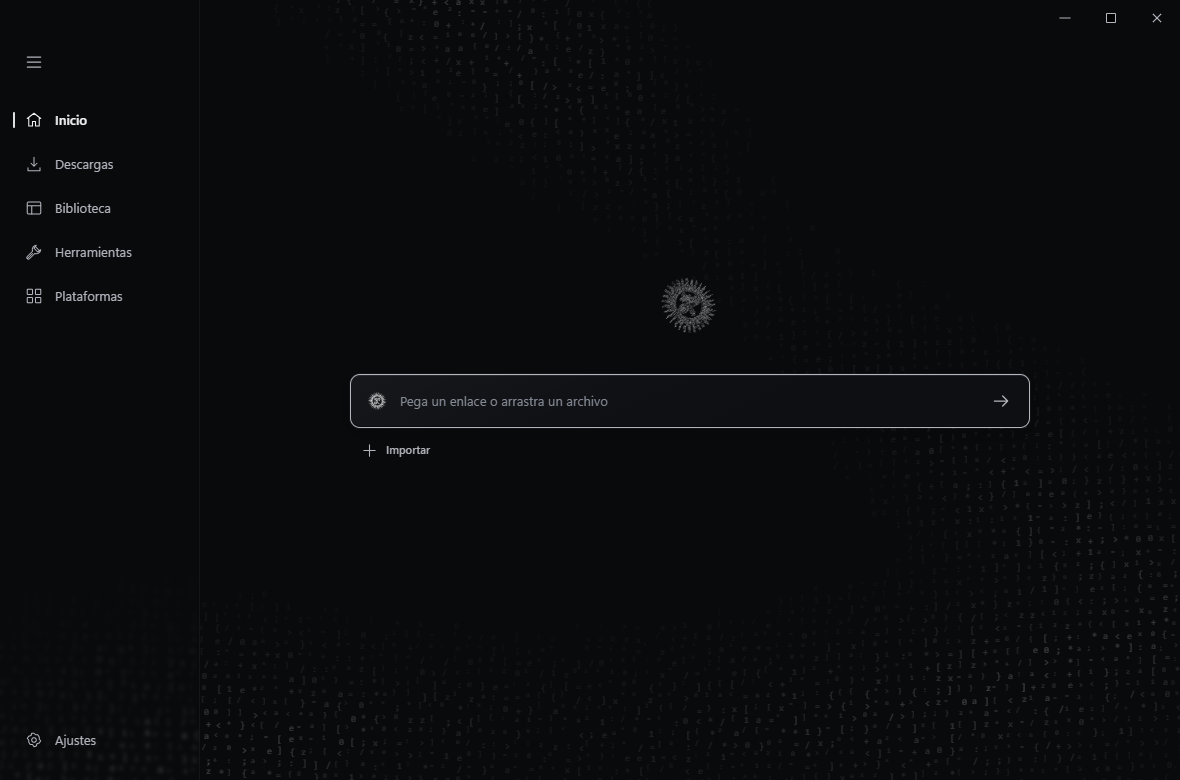
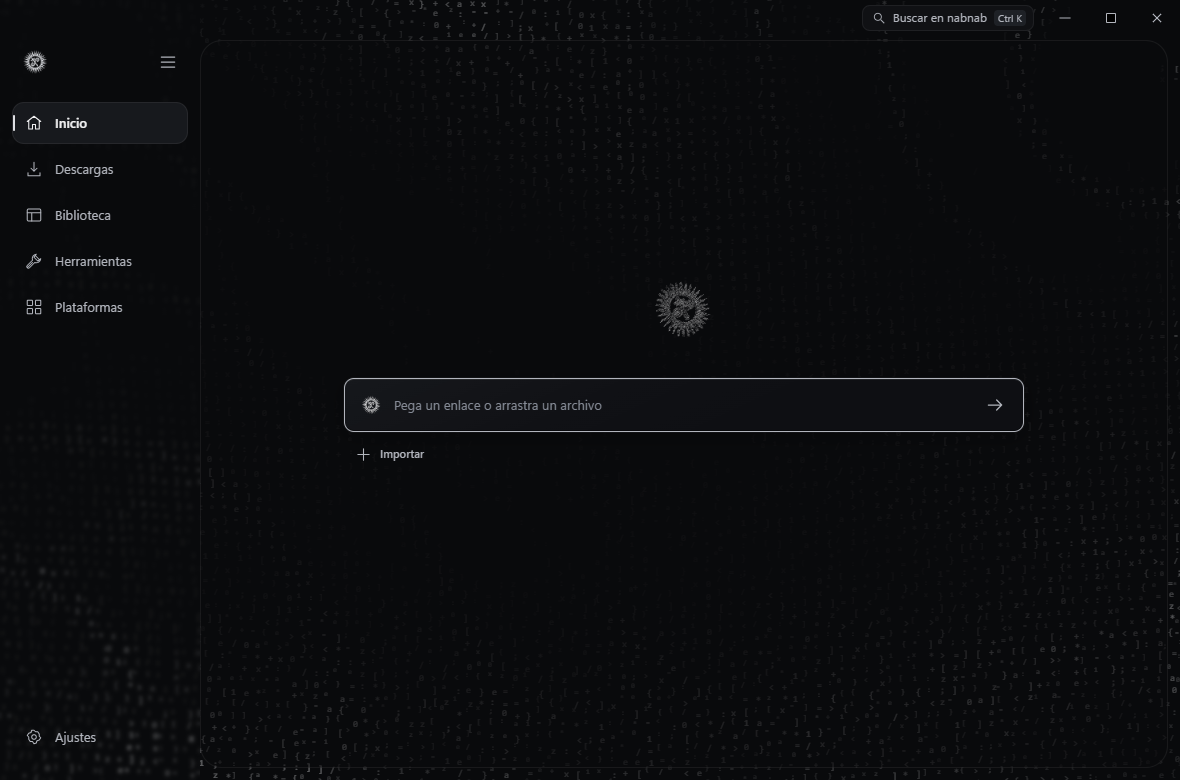
Unify workspace visuals

diff --git a/src/platforms-ui.ts b/src/platforms-ui.ts
@@ -1,11 +1,22 @@
 import {createFederatedAuthController} from "./federated-auth-ui";
 import {createGalleryAuth} from "./gallery-auth-ui";
 import {escapeHtml as h, type Copy, type Job, type Snapshot} from './contracts';
-import {icon, option} from './views-common';
+import {icon, option, type Icon} from './views-common';
 
 type Group = 'social'|'images'|'audio'|'telegram'|'courses'|'files';
 interface Platform {module?:'telegram'|'courses'|'torrent'|'podcasts'|'files'|'fileSources';federated?:'peertube'|'mastodon';id:string;name:string;host:string;group:Group;operations:string;engine:string;session:string;gallery?:boolean}
-const platformMarks:Record<string,string>={github:"GH",archive:"IA",commons:"WC",drive:"D",onedrive:"OD",dropbox:"DB",youtube:"Y",telegram:"T"};
+const platformLogos = new Set(
+  "archive artstation arxiv bandcamp bilibili bluesky commons coursera dailymotion deviantart drive dropbox facebook flickr github imgur instagram mastodon peertube pinterest pixiv reddit skillshare soundcloud telegram threads tiktok torrent tumblr twitch twitter udemy vimeo youtube zenodo".split(" "),
+);
+const platformFallback: Record<Group, Icon> = {
+  audio: "audio", courses: "library", files: "folder", images: "image", social: "video", telegram: "link",
+};
+
+function platformMark(platform: Platform) {
+  return `<span class="platform-symbol" aria-hidden="true">${platformLogos.has(platform.id)
+    ? `<img src="${import.meta.env.BASE_URL}platform-logos/${platform.id}.svg" width="24" height="24" alt="" loading="lazy" decoding="async">`
+    : icon(platform.id === "http" ? "link" : platformFallback[platform.group])}</span>`;
+}
 const platforms:Platform[] = [
   ...[{id:"github",name:"GitHub Releases",host:"github.com",session:"Versiones estables y prerelease"},{id:"archive",name:"Internet Archive",host:"archive.org",session:"Originales y derivados autorizados"},{id:"commons",name:"Wikimedia Commons",host:"commons.wikimedia.org",session:"Autor y licencia por archivo"},{id:"drive",name:"Google Drive",host:"drive.google.com",session:"OAuth de escritorio requerido"},{id:"onedrive",name:"OneDrive",host:"onedrive.live.com",session:"OAuth de escritorio requerido"},{id:"dropbox",name:"Dropbox",host:"dropbox.com",session:"OAuth de escritorio requerido"}].map<Platform>(p=>({...p,group:"files",module:"fileSources",engine:"API oficial",operations:"Explorar · seleccionar · descargar a Biblioteca"})),
   {id:'telegram',name:'Telegram',host:'t.me · cuenta MTProto autorizada',group:'telegram',operations:'Medios de mensajes y chats accesibles · selección paginada',engine:'TDLib opcional',session:'api_id, api_hash y cuenta propia',module:'telegram'},
@@ -46,13 +57,13 @@ export function createPlatformsController(hooks:Hooks){
   function render():string{
     if(current){
       const visible=gallery?.assets.filter(assetVisible)??[];
-      return `<div class="page-heading"><div><button class="button quiet" data-action="platform-back">${t('← Plataformas','← Platforms')}</button><h1>${h(current.name)}</h1><p>${h(current.operations)}</p></div><span class="platform-engine">${h(current.engine)}</span></div>
+      return `<div class="page-heading"><div><button class="button quiet" data-action="platform-back">${t('← Plataformas','← Platforms')}</button><div class="platform-heading-identity">${platformMark(current)}<div><h1>${h(current.name)}</h1><p>${h(current.operations)}</p></div></div></div><span class="platform-engine">${h(current.engine)}</span></div>
       <form id="platform-form" class="platform-form"><label>${t('Enlace de origen','Source link')}<input id="platform-url" type="url" required placeholder="https://…" value="${h(url)}" autocomplete="off"></label>${current.federated?`<label class="federated-consent"><span><input id="federated-consent" type="checkbox" ${consent?"checked":""} required>${t("Permitir consultar esta instancia para esta exploración","Allow contacting this instance for this inspection")}</span></label>`:""}${current.gallery?`<label>${t('Colección de destino','Destination collection')}<input id="gallery-collection" required maxlength="120" value="${h(collection)}" placeholder="${t('Referencias','References')}"></label><button class="button primary" ${busy?'disabled':''}>${busy?t('Explorando…','Inspecting…'):t('Explorar 50 archivos','Inspect 50 files')}</button>`:`<button class="button primary">${t('Preparar descarga','Prepare download')}</button>`}</form>${current.gallery&&current.group==="social"&&!current.federated?`<button type="button" class="button quiet" data-action="gallery-video">${t("Solo vídeo en Inicio","Video only in Home")}</button>`:""}
       <p class="field-note">${h(current.session)} · ${t('Las sesiones disponibles se gestionan en Ajustes → Sesiones. El componente no inicia sesión.','Available sessions are managed in Settings → Sessions. A component does not sign you in.')}</p>
       ${current.id==='pixiv'?galleryAuth.render():""}${current.federated==='mastodon'?federatedAuth.render():""}${gallery?.warnings?.length?`<div class="notice" role="status"><p>${gallery.warnings.map(w=>h(w)).join("<br>")}</p></div>`:""}${gallery?`<div class="view-toolbar"><label>${t('Tipo','Type')}<select id="gallery-kind">${option('all',t('Todos','All'),kind)}${option('image',t('Imágenes','Images'),kind)}${option('video',t('Vídeos','Videos'),kind)}${option('animation',t('Animación o WebP','Animation or WebP'),kind)}</select></label><label>${t('Anchura mínima conocida','Minimum known width')}<input id="gallery-minimum" type="number" min="0" max="65536" value="${h(minimum)}"></label><span class="result-count">${visible.length} ${t('archivos en este bloque','files in this page')}</span></div><details class="gallery-filters"><summary>${t("Dimensiones y fecha","Dimensions and date")}</summary><div class="form-grid"><label>${t("Altura mínima conocida","Minimum known height")}<input id="gallery-minimum-height" type="number" min="0" max="65536" value="${h(minimumHeight)}"></label><label>${t("Desde","From")}<input id="gallery-from-date" type="date" value="${h(fromDate)}"></label><label>${t("Hasta","To")}<input id="gallery-to-date" type="date" value="${h(toDate)}"></label></div><p class="field-note">${t("Un filtro excluye los valores desconocidos que necesita. No se inventan dimensiones ni fechas.","A filter excludes the unknown values it needs. Dimensions and dates are never invented.")}</p></details><div class="selection-toolbar"><button class="button quiet" data-action="gallery-select">${t('Seleccionar visibles','Select visible')}</button><button class="button quiet" data-action="gallery-clear">${t('Quitar selección','Clear selection')}</button><span>${selected.size} ${t('seleccionados','selected')}</span><button class="button primary" data-action="gallery-queue" ${!selected.size||busy?'disabled':''}>${t('Añadir a la cola','Add to queue')}</button></div><div class="gallery-grid">${visible.map(a=>`<label class="gallery-asset"><div class="gallery-visual">${icon(a.kind==='video'?'video':'image')}<img data-gallery-preview="${h(a.id)}" alt="" hidden><span>${String(a.position).padStart(3,'0')}</span><input type="checkbox" data-gallery-asset="${h(a.id)}" ${selected.has(a.id)?'checked':''} aria-label="${h(t('Seleccionar ','Select ')+a.title)}"></div><strong>${h(a.title)}</strong><span>${h(a.author??t('Autor desconocido','Unknown author'))}</span><small>${a.width??'?'} × ${a.height??'?'} · ${h(a.kind)}${a.date?` · ${h(a.date)}`:''}</small></label>`).join('')}</div>${!visible.length?`<div class="empty-state"><h2>${t('Sin archivos en este bloque','No files in this page')}</h2><p>${t('Prueba otro filtro o revisa los permisos del origen.','Try another filter or review source permissions.')}</p></div>`:''}<div class="library-pagination"><p>${t('Exploración parcial. Solo se descargará la selección.','Partial inspection. Only selected files will download.')}</p>${gallery.hasMore?`<button class="button secondary" data-action="gallery-next" ${busy?'disabled':''}>${t('Siguiente bloque','Next page')}</button>`:''}</div>`:`<div class="platform-guidance">${icon(current.gallery?'grid':'link')}<h2>${t(current.gallery?'Explora antes de descargar':'Continúa en Inicio',current.gallery?'Inspect before downloading':'Continue in Home')}</h2><p>${t(current.gallery?'Revisa hasta 50 adjuntos por bloque. Las dimensiones ausentes se muestran como desconocidas. Los originales conservan su formato.':'Reutiliza las opciones de calidad, subtítulos y lotes existentes.',current.gallery?'Review up to 50 attachments per page. Missing dimensions remain unknown. Originals keep their format.':'Uses existing quality, subtitle and batch options.')}</p></div>`}`;
     }
     const visible=platforms.filter(p=>(group==='all'||p.group===group)&&`${p.name} ${p.host} ${p.operations} ${p.engine}`.toLocaleLowerCase().includes(query.toLocaleLowerCase()));
-    return `<div class="page-heading"><div><h1>${t('Plataformas','Platforms')}</h1><p>${t('Elige una fuente y revisa qué puedes guardar.','Choose a source and review what you can save.')}</p></div></div><div class="view-toolbar platform-view-toolbar"><label class="search-control">${icon('search')}<input id="platform-search" type="search" value="${h(query)}" placeholder="${t('Nombre, URL o tipo de contenido','Name, URL or content type')}" aria-label="${t('Buscar plataformas','Search platforms')}"></label></div><div class="platform-shortcuts"><button class="button secondary" data-action="open-podcasts">${icon("audio")}${t("Podcast RSS","RSS podcast")}</button><button class="button secondary" data-action="open-torrents">${icon("folder")}BitTorrent</button><button class="button secondary" data-action="open-source-exports">${icon("list")}${t("Archivar publicación","Archive post")}</button><button class="button secondary" data-action="open-live">${icon("video")}${t("Directos","Live")}</button><button class="button secondary" data-action="open-telegram">${icon("image")}Telegram</button><button class="button secondary" data-action="open-courses">${icon("library")}${t("Cursos","Courses")}</button></div><div class="platform-directory"><nav class="filter-tabs platform-filters" aria-label="${t('Tipos de plataforma','Platform groups')}"><button data-action="platform-group" data-id="all" aria-current="${group==='all'?'page':'false'}">${t('Todas','All')}</button>${Object.entries(labels).map(([key,label])=>`<button data-action="platform-group" data-id="${key}" aria-current="${group===key?'page':'false'}">${t(...label)}</button>`).join('')}</nav><div class="platform-list">${visible.map(p=>`<button class="platform-row" data-action="${p.module?`open-${p.module}`:"platform-open"}" data-id="${p.id}"><span class="platform-symbol">${h(platformMarks[p.id]??p.name.slice(0,2).toUpperCase())}</span><span class="platform-main"><strong>${h(p.name)}</strong><span>${h(p.operations)}</span><small>${h(p.host)}</small></span><span class="platform-requirements"><span>${h(p.engine)}</span><small>${h(p.session)}</small></span>${icon('arrow')}</button>`).join('')}</div></div>${visible.length?'':`<div class="empty-state">${icon('search')}<h2>${t('Sin plataformas en esta vista','No platforms in this view')}</h2><p>${t('Prueba otro nombre o categoría. Las integraciones en desarrollo aparecerán cuando tengan un recorrido disponible.','Try another name or group. Integrations in development appear when a usable workflow is available.')}</p></div>`}<p class="field-note platform-footnote">${t('La disponibilidad depende del enlace, los permisos y la versión del motor. Ninguna plataforma se considera verificada por tener un extractor.','Availability depends on the link, permissions and engine version. An extractor alone does not mean a platform is verified.')}</p>`;
+    return `<div class="page-heading"><div><h1>${t('Plataformas','Platforms')}</h1><p>${t('Elige una fuente y revisa qué puedes guardar.','Choose a source and review what you can save.')}</p></div></div><div class="view-toolbar platform-view-toolbar"><label class="search-control">${icon('search')}<input id="platform-search" type="search" value="${h(query)}" placeholder="${t('Nombre, URL o tipo de contenido','Name, URL or content type')}" aria-label="${t('Buscar plataformas','Search platforms')}"></label></div><div class="platform-shortcuts"><button class="button secondary" data-action="open-podcasts">${icon("audio")}${t("Podcast RSS","RSS podcast")}</button><button class="button secondary" data-action="open-torrents">${icon("folder")}BitTorrent</button><button class="button secondary" data-action="open-source-exports">${icon("list")}${t("Archivar publicación","Archive post")}</button><button class="button secondary" data-action="open-live">${icon("video")}${t("Directos","Live")}</button><button class="button secondary" data-action="open-telegram">${icon("image")}Telegram</button><button class="button secondary" data-action="open-courses">${icon("library")}${t("Cursos","Courses")}</button></div><div class="platform-directory"><nav class="filter-tabs platform-filters" aria-label="${t('Tipos de plataforma','Platform groups')}"><button data-action="platform-group" data-id="all" aria-current="${group==='all'?'page':'false'}">${t('Todas','All')}</button>${Object.entries(labels).map(([key,label])=>`<button data-action="platform-group" data-id="${key}" aria-current="${group===key?'page':'false'}">${t(...label)}</button>`).join('')}</nav><div class="platform-list">${visible.map(p=>`<button class="platform-row" data-action="${p.module?`open-${p.module}`:"platform-open"}" data-id="${p.id}">${platformMark(p)}<span class="platform-main"><strong>${h(p.name)}</strong><span>${h(p.operations)}</span><small>${h(p.host)}</small></span><span class="platform-requirements"><span>${h(p.engine)}</span><small>${h(p.session)}</small></span>${icon('arrow')}</button>`).join('')}</div></div>${visible.length?'':`<div class="empty-state">${icon('search')}<h2>${t('Sin plataformas en esta vista','No platforms in this view')}</h2><p>${t('Prueba otro nombre o categoría. Las integraciones en desarrollo aparecerán cuando tengan un recorrido disponible.','Try another name or group. Integrations in development appear when a usable workflow is available.')}</p></div>`}<p class="field-note platform-footnote">${t('La disponibilidad depende del enlace, los permisos y la versión del motor. Ninguna plataforma se considera verificada por tener un extractor.','Availability depends on the link, permissions and engine version. An extractor alone does not mean a platform is verified.')}</p>`;
   }
   async function inspect(offset=0){if(!current?.gallery)return;busy=true;hooks.render();try{gallery=await hooks.command<Gallery>(current.federated?'inspect_federated':'inspect_gallery',{url,offset,limit:50,...(current.federated?{kind:current.federated,consent}:{})});selected.clear();}finally{busy=false;hooks.render();}}
   async function handleClick(action:string,button:HTMLButtonElement):Promise<boolean>{

diff --git a/src/sections.css b/src/sections.css
@@ -1,35 +1,34 @@
 /* The work areas share the home palette, with quieter boundaries and task-sized surfaces. */
 .tool-workspace > .tool-section { margin: 0; padding: 0; border: 0; }
-body:not([data-page="home"]) .app-shell {
+.app-shell {
   --work-top: 40px;
   --work-gutter: 12px;
   --work-radius: 22px;
-  background: var(--secondary);
 }
-body:not([data-page="home"]) #main {
+#main {
   height: auto;
   margin: var(--work-top) var(--work-gutter) var(--work-gutter) 0;
   border: 1px solid var(--edge-quiet);
   border-radius: var(--work-radius);
-  background: var(--background);
+  background: color-mix(in srgb, var(--background) 52%, transparent);
 }
-.has-audio-player body:not([data-page="home"]) #main {
+.has-audio-player #main {
   margin-bottom: 0;
   border-bottom: 0;
   border-bottom-left-radius: 0;
   border-bottom-right-radius: 0;
 }
-.has-audio-player body:not([data-page="home"]) .audio-player {
+.has-audio-player .audio-player {
   margin: 0 var(--work-gutter) var(--work-gutter) 0;
   border: 1px solid var(--edge-quiet);
   border-radius: 0 0 var(--work-radius) var(--work-radius);
   background: var(--surface);
 }
-body:not([data-page="home"]) .sidebar {
+.sidebar {
   border-right: 0;
   padding: var(--work-top) 12px 22px;
 }
-body:not([data-page="home"]) .sidebar-header {
+.sidebar-header {
   display: flex;
   align-items: center;
   justify-content: space-between;
@@ -45,7 +44,6 @@ body:not([data-page="home"]) .sidebar-header {
   background: var(--action);
   mask: url('/emblem.png') center / contain no-repeat;
 }
-.is-home .sidebar-mark { display: none; }
 .titlebar-search {
   display: flex;
   align-items: center;
@@ -59,24 +57,22 @@ body:not([data-page="home"]) .sidebar-header {
   font-size: 12px;
   cursor: pointer;
 }
-.is-home .titlebar-search { display: none; }
 .titlebar-search:hover { color: var(--text); background: var(--surface); }
 .titlebar-search svg { width: 14px; height: 14px; }
 .titlebar-search kbd { padding: 1px 4px; border-radius: 4px; font: inherit; font-size: 10px; background: var(--hover); }
-body:not([data-page="home"]) .sidebar-toggle { margin: 0; border-radius: 11px; }
-body:not([data-page="home"]) .nav-item {
+.app-shell .sidebar-toggle { margin: 0; border-radius: 11px; }
+.nav-item {
   min-height: 42px;
   border-radius: 12px;
   transition: background-color var(--feedback) var(--ease-out), color var(--feedback) var(--ease-out);
 }
-body:not([data-page="home"]) .nav-item[aria-current="page"] {
+.nav-item[aria-current="page"] {
   background: var(--surface);
   border-color: var(--edge-quiet);
 }
-body:not([data-page="home"]) .nav-item[aria-current="page"]::before { display: none; }
-.sidebar-collapsed body:not([data-page="home"]) .sidebar { padding-inline: 8px; }
-.sidebar-collapsed body:not([data-page="home"]) .sidebar-header { flex-direction: column; justify-content: center; padding: 0; gap: 10px; }
-.sidebar-collapsed body:not([data-page="home"]) .sidebar-mark { width: 21px; height: 21px; }
+.sidebar-collapsed .sidebar { padding-inline: 8px; }
+.sidebar-collapsed .sidebar-header { flex-direction: column; justify-content: center; padding: 0; gap: 10px; }
+.sidebar-collapsed .sidebar-mark { width: 21px; height: 21px; }
 body:not([data-page="home"]) #page-content {
   --section-radius: 18px;
   --section-edge: #ffffff0b;
@@ -95,6 +91,7 @@ body:not([data-page="home"]) #page-content .filter-tabs :is([aria-pressed="true"
 body:not([data-page="home"]) #page-content .selection-toolbar { border-radius: 12px; padding: 10px 14px; gap: 10px; }
 body:not([data-page="home"]) #page-content .search-control { border-radius: 11px; background: #0e0f12; border-color: #ffffff14; min-height: 40px; }
 body:not([data-page="home"]) #page-content .search-control input { background: transparent; }
+body:not([data-page="home"]) #page-content .search-control input:focus-visible { outline: none; }
 body:not([data-page="home"]) #page-content .empty-state { padding-block: 68px; }
 body:not([data-page="home"]) #page-content .empty-state > svg { padding: 12px; box-sizing: content-box; border-radius: 50%; background: var(--secondary); color: var(--muted); }
 body:not([data-page="home"]) #page-content .empty-state h2 { font-size: 19px; letter-spacing: -.3px; }
@@ -123,8 +120,10 @@ body[data-page="downloads"] .job-metrics { color: var(--muted); }
 body[data-page="downloads"] .job-group-summary { padding: 20px 14px 5px; color: var(--muted); font-size: 12px; }
 
 /* The source directory separates choosing a family from choosing a source. */
+body[data-page="platforms"] #main { overflow-x: hidden; }
 body[data-page="platforms"] .platform-view-toolbar { margin-bottom: 16px; }
-body[data-page="platforms"] .platform-view-toolbar .search-control { width: min(100%, 480px); max-width: none; }
+body[data-page="platforms"] .platform-view-toolbar .search-control { min-width: 0; max-width: 100%; flex: 1 1 100%; }
+body[data-page="platforms"] .platform-view-toolbar .search-control input { flex: 1; min-width: 0; width: auto; }
 body[data-page="platforms"] .platform-shortcuts { gap: 6px; margin: 0 0 28px; padding-bottom: 20px; border-bottom: 1px solid var(--section-edge); }
 body[data-page="platforms"] .platform-shortcuts .button { background: transparent; border-color: transparent; box-shadow: none; font-size: 12px; color: var(--muted); padding-inline: 10px; }
 body[data-page="platforms"] .platform-directory { display: grid; grid-template-columns: 154px minmax(0,1fr); gap: 28px; align-items: start; }
@@ -132,9 +131,16 @@ body[data-page="platforms"] #page-content .platform-filters { display: flex; fle
 body[data-page="platforms"] #page-content .platform-filters button { justify-content: flex-start; text-align: left; white-space: normal; padding: 10px 12px; min-height: 39px; color: var(--muted); }
 body[data-page="platforms"] #page-content .platform-filters [aria-current="page"] { color: var(--text); background: var(--surface); }
 body[data-page="platforms"] .platform-list { border: 0; min-width: 0; }
-body[data-page="platforms"] .platform-row { display: grid; grid-template-columns: 44px minmax(0,1fr) minmax(100px,160px) 16px; gap: 15px; min-height: 99px; padding: 16px 12px; margin-bottom: 5px; border: 0; border-radius: 15px; }
+body[data-page="platforms"] .platform-row { display: grid; grid-template-columns: 44px minmax(0,1fr) minmax(0,160px) 16px; gap: 15px; min-height: 99px; padding: 16px 12px; margin-bottom: 5px; border: 0; border-radius: 15px; }
 body[data-page="platforms"] .platform-symbol { width: 44px; height: 44px; border-radius: 50%; background: var(--surface); color: var(--text); font-size: 14px; font-weight: 600; letter-spacing: -.4px; display: grid; place-items: center; }
+.platform-symbol img { display: block; object-fit: contain; filter: invert(.91); }
+.platform-heading-identity { display: flex; align-items: center; gap: 13px; }
+.platform-heading-identity .platform-symbol { flex-shrink: 0; }
+@media (forced-colors: active) {
+  .platform-symbol img { filter: none; background: white; border-radius: 3px; forced-color-adjust: none; }
+}
 body[data-page="platforms"] .platform-main { gap: 5px; }
+body[data-page="platforms"] :is(.platform-main,.platform-requirements) { min-width: 0; overflow-wrap: anywhere; }
 body[data-page="platforms"] .platform-main strong { font-size: 15px; font-weight: 500; }
 body[data-page="platforms"] .platform-main > span { line-height: 1.5; font-size: 12px; }
 body[data-page="platforms"] .platform-main small { color: var(--auxiliary); }
@@ -367,7 +373,7 @@ body[data-page="platforms"] #page-content .platform-filters { position: sticky; 
   body[data-page="platforms"] #page-content .platform-filters { position: static; }
 }
 @media (forced-colors: active) {
-  body:not([data-page="home"]) :is(#main, .nav-item[aria-current="page"]) { border-color: CanvasText; }
+  :is(#main, .nav-item[aria-current="page"]) { border-color: CanvasText; }
   .sidebar-mark { background: CanvasText; forced-color-adjust: none; }
   body[data-page="library"] :is(.media-item,.media-poster,.media-format) { border-color: CanvasText; }
   body[data-page="library"] .media-format { background: Canvas; color: CanvasText; }

diff --git a/src/style.css b/src/style.css
@@ -162,7 +162,6 @@ hr { border: 0; border-top: 1px solid var(--border); margin: 24px 0; }
 [data-maximized="true"] .restore-icon { display: block; }
 .app-shell { height: 100dvh; margin-top: -36px; display: grid; grid-template-columns: var(--sidebar-width) minmax(0, 1fr); }
 .sidebar { display: flex; flex-direction: column; padding: 44px 12px 20px; border-right: 1px solid #ffffff0b; min-height: 0; background: transparent; }
-.is-home .sidebar { background: #090a0c99; }
 .sidebar-toggle { margin: 0 0 20px 4px; }
 .nav-primary, .nav-secondary { display: flex; flex-direction: column; gap: 4px; }
 .nav-secondary { margin-top: auto; }
@@ -180,9 +179,11 @@ hr { border: 0; border-top: 1px solid var(--border); margin: 24px 0; }
 .sidebar-collapsed .nav-item[aria-current="page"]::before { left: -1px; }
 .sidebar-collapsed .nav-work-dot { position: absolute; right: 4px; top: 7px; }
 #main { min-width: 0; overflow: auto; position: relative; height: calc(100% - 36px); margin-top: 36px; overscroll-behavior: contain; scrollbar-color: var(--border) transparent; }
-.home-page { min-height: calc(100dvh - 36px); position: relative; display: flex; flex-direction: column; padding: 24px 0 88px; }
-#field { position: fixed; inset: 0; width: 100%; height: 100%; pointer-events: none; opacity: 1; z-index: -1; transition: opacity var(--surface-entry) var(--ease-out); }
-body:has(.home-page.has-media) #field { opacity: .62; }
+.home-page { min-height: calc(100dvh - var(--work-top) - var(--work-gutter) - var(--audio-player-height, 0px) - 2px); position: relative; display: flex; flex-direction: column; padding: 24px 0 72px; }
+#field { position: fixed; inset: 0; width: 100%; height: 100%; pointer-events: none; opacity: .36; z-index: -1; }
+body[data-page="home"] #field { opacity: 1; }
+body[data-page="home"]:has(.home-page.has-media) #field { opacity: .64; }
+html[data-input="pointer"] #field { transition: opacity var(--surface-entry) var(--ease-out); }
 #home-content { position: relative; width: min(680px, calc(100% - 64px)); margin: auto; padding: 0; flex: 0 0 auto; }
 .home-identity { display: flex; align-items: center; flex-direction: column; margin-bottom: 32px; }
 #emblem { width: 72px; height: 72px; }
@@ -460,8 +461,7 @@ body:has(.home-page.has-media) #field { opacity: .62; }
 @supports (backdrop-filter: blur(1px)) {
   :root { --glass-smoke: #11131899; --glass-raised: #17191dcf; --nav-smoke: #090a0c18; --glass-blur: blur(8px); --nav-blur: blur(2px); }
 }
-.sidebar, .is-home .sidebar { background-color: var(--nav-smoke); background-image: none; }
-.is-home .sidebar { backdrop-filter: var(--nav-blur); }
+.sidebar { background-color: var(--nav-smoke); backdrop-filter: var(--nav-blur); }
 .url-control, .destination-row, .search-control, .segmented {
   background-color: var(--glass-smoke); background-image: var(--glass-reflection);
   border-color: #ffffff24; box-shadow: inset 0 1px 0 #ffffff0d, inset 0 -1px 0 #0005, 0 2px 6px #0003;
@@ -507,8 +507,10 @@ html:not([data-input="keyboard"]) .nav-item:not(:disabled):active { transform: s
 .reduced-motion *, .reduced-motion *::before, .reduced-motion *::after { animation: none !important; transition-duration: 0s !important; scroll-behavior: auto !important; }
 .reduced-motion .is-loading .url-control::after { width: 100%; opacity: .5; }
 .reduced-transparency { --glass-smoke: #101114; --glass-raised: #17191d; --nav-smoke: #0e1013; --glass-reflection: none; --nav-reflection: none; --glass-blur: none; --nav-blur: none; }
+.reduced-transparency body:not([data-page="home"]) #main { background: var(--background); }
 @media (prefers-reduced-transparency: reduce), (prefers-contrast: more) {
   :root { --glass-smoke: #101114; --glass-raised: #17191d; --nav-smoke: #0e1013; --glass-reflection: none; --nav-reflection: none; --glass-blur: none; --nav-blur: none; }
+  body:not([data-page="home"]) #main { background: var(--background); }
   .url-control, input, select, .destination-row, .nav-item[aria-current="page"] { border-color: #777c86; }
 }
 @media (forced-colors: active) {

diff --git a/src/graphics.ts b/src/graphics.ts
@@ -92,11 +92,14 @@ export function startGraphics(background: HTMLCanvasElement, emblem: HTMLCanvasE
       const u = (g.x - width * 0.5) / span, v = (g.y - height * 0.48) / span;
       const first = u * 0.62 + Math.sin(u * 2.3 + drift * 0.35) * 0.16 + Math.cos(time * 0.027) * 0.13 - 0.5;
       const second = -u * 0.28 + Math.sin(u * 2.4 - drift * 0.3) * 0.12 + 0.49;
-      const ribbon = Math.max(Math.exp(-Math.pow((v - first) * 4.8, 2)), Math.exp(-Math.pow((v - second) * 5.4, 2)));
-      const filament = Math.max(Math.exp(-Math.pow(v - first, 2) * 500), Math.exp(-Math.pow(v - second, 2) * 600));
+      const third = .14 + Math.sin(u * 2.8 + drift * .46) * .21 - .39 * u;
+      const ribbon = Math.max(Math.exp(-Math.pow((v - first) * 4.1, 2)), Math.exp(-Math.pow((v - second) * 4.7, 2)),
+        .44 * Math.exp(-Math.pow((v - third) * 5.8, 2)));
+      const filament = Math.max(Math.exp(-Math.pow(v - first, 2) * 370), Math.exp(-Math.pow(v - second, 2) * 470),
+        .63 * Math.exp(-Math.pow(v - third, 2) * 630));
       const depth = 0.45 + g.depth * 0.35;
-      let x = g.x + Math.sin(v * 2.4 + drift) * 18 * depth;
-      let y = g.y + Math.cos(u * 2.8 - drift * 0.7) * 14 * depth;
+      let x = g.x + (Math.sin(v * 2.4 + drift) * 22 + Math.sin(u * 4.1 - v * 3.1 + drift * .8) * 6) * depth;
+      let y = g.y + (Math.cos(u * 2.8 - drift * .7) * 17 + Math.sin(v * 4.8 + u * 2.1 - drift) * 5) * depth;
       let light = 0;
       for (const wave of waves) {
         const dx = x - wave.x, dy = (y - wave.y) / wave.ellipse;
@@ -109,9 +112,14 @@ export function startGraphics(background: HTMLCanvasElement, emblem: HTMLCanvasE
         y += dy / Math.max(1, distance) * displacement * 12;
         light += envelope * wave.strength * (0.6 + Math.cos(offset * 0.05) * 0.4);
       }
-      const breathe = 0.72 + Math.sin(time * 0.22 + u * 4.8 - v * 2.7) * 0.28;
-      const quiet = 1 - 0.86 * Math.exp(-Math.pow((x - width * 0.5) / (readingWidth * 0.7), 4) - Math.pow((y - height * 0.48) / (height * 0.38), 4));
-      const opacity = Math.min(0.38, ((0.012 + ribbon * 0.26 + filament * 0.08) * depth * breathe + light * 0.12) * quiet);
+      const breathe = .81 + Math.sin(time * .22 + u * 4.8 - v * 2.7) * .19;
+      const twinkle = .5 + .5 * Math.sin(g.phase + time * .63 + u * .9);
+      const crest = Math.pow(.5 + .5 * Math.cos(v * 7 - u * 4 + time * .41), 4);
+      const eddyA = Math.hypot(u + .92, (v - .48) * 1.22), eddyB = Math.hypot(u - .88, (v + .44) * 1.16);
+      const etch = Math.pow(.5 + .5 * Math.cos(eddyA * 25 - time * .74 + .83 * Math.sin(eddyB * 11 + drift)), 12) * Math.exp(-eddyA * 1.65)
+        + Math.pow(.5 + .5 * Math.cos(eddyB * 30 + time * .67 + .71 * Math.sin(eddyA * 9 - drift)), 16) * Math.exp(-eddyB * 1.55);
+      const quiet = 1 - .79 * Math.exp(-Math.pow((x - width * .56) / (readingWidth * .68), 4) - Math.pow((y - height * .50) / (height * .31), 4));
+      const opacity = Math.min(.57, ((.025 + ribbon * (.32 + .08 * crest) + filament * .15) * depth * breathe * (.86 + .24 * twinkle) + light * .14 + etch * .33) * quiet);
       if (opacity < 0.025) continue;
       const level = Math.min(63, Math.round(opacity * 128));
       const palette = level * 16;

diff --git a/src/field.ts b/src/field.ts
@@ -25,10 +25,14 @@ export function createFieldRenderer(canvas: HTMLCanvasElement) {
       float u = uv.x, v = uv.y, drift = time * .16;
       float first = u*.62 + sin(u*2.3+drift*.35)*.16 + cos(time*.027)*.13 - .5;
       float second = -u*.28 + sin(u*2.4-drift*.3)*.12 + .49;
-      float ribbon = max(exp(-pow(abs((v-first)*4.8),2.)),exp(-pow(abs((v-second)*5.4),2.)));
-      float filament = max(exp(-pow(abs(v-first),2.)*500.),exp(-pow(abs(v-second),2.)*600.));
+      float third = .14 + sin(u*2.8+drift*.46)*.21 - .39*u;
+      float ribbon = max(exp(-pow(abs((v-first)*4.1),2.)),exp(-pow(abs((v-second)*4.7),2.)));
+      ribbon = max(ribbon, .44*exp(-pow(abs((v-third)*5.8),2.)));
+      float filament = max(exp(-pow(abs(v-first),2.)*370.),exp(-pow(abs(v-second),2.)*470.));
+      filament = max(filament, .63*exp(-pow(abs(v-third),2.)*630.));
       float depth = .45+detail.y*.35;
-      vec2 p = origin + vec2(sin(v*2.4+drift)*18.,cos(u*2.8-drift*.7)*14.)*depth;
+      vec2 p = origin + vec2(sin(v*2.4+drift)*22.+sin(u*4.1-v*3.1+drift*.8)*6.,
+        cos(u*2.8-drift*.7)*17.+sin(v*4.8+u*2.1-drift)*5.)*depth;
       float light = 0.;
       float chroma = 0.;
       for (int i=0;i<3;i++) {
@@ -42,9 +46,14 @@ export function createFieldRenderer(canvas: HTMLCanvasElement) {
         p += delta/max(1.,distance)*displacement*vec2(17.,12.);
         light += envelope*waves[i].w*(.6+cos(offset*.05)*.4);
       }
-      float breathe = .72+sin(time*.22+u*4.8-v*2.7)*.28;
-      float quiet = 1.-.86*exp(-pow(abs((p.x-size.x*.5)/(readingWidth*.7)),4.)-pow(abs((p.y-size.y*.48)/(size.y*.38)),4.));
-      opacity = min(.38,((.012+ribbon*.26+filament*.08)*depth*breathe+light*.12)*quiet);
+      float breathe = .81+sin(time*.22+u*4.8-v*2.7)*.19;
+      float twinkle = .5+.5*sin(detail.x+time*.63+u*.9);
+      float crest = pow(.5+.5*cos(v*7.-u*4.+time*.41),4.);
+      vec2 eddies = vec2(length(vec2(u+.92, (v-.48)*1.22)),length(vec2(u-.88, (v+.44)*1.16)));
+      float etch = pow(.5+.5*cos(eddies.x*25.-time*.74+.83*sin(eddies.y*11.+drift)),12.) * exp(-eddies.x*1.65);
+      etch += pow(.5+.5*cos(eddies.y*30.+time*.67+.71*sin(eddies.x*9.-drift)),16.) * exp(-eddies.y*1.55);
+      float quiet = 1.-.79*exp(-pow(abs((p.x-size.x*.56)/(readingWidth*.68)),4.)-pow(abs((p.y-size.y*.50)/(size.y*.31)),4.));
+      opacity = min(.57,((.025+ribbon*(.32+.08*crest)+filament*.15)*depth*breathe*(.86+.24*twinkle)+light*.14+etch*.33)*quiet);
       float hue = time/mix(${COLOR_CYCLE_SECONDS.toFixed(1)},${CONTINUOUS_COLOR_CYCLE_SECONDS.toFixed(1)},fullColor) + dot(p/size,vec2(.025,.02));
       float saturation = mix(min(.62,chroma*.72),max(.12,min(.8,chroma*.9)),fullColor);
       vec3 spectrum = clamp(abs(fract(hue+vec3(0.,2./3.,1./3.))*6.-3.)-1.,0.,1.);

diff --git a/src/main.ts b/src/main.ts
@@ -366,7 +366,7 @@ function renderCurrent(): void {
   if(!showingTranslation)translationTool.leave();
   const directoryScroll=document.querySelector<HTMLElement>('.tool-directory')?.scrollTop??0;
   preserveFocus(()=>{
-    updateNavigation();required('#field').hidden=page!=='home';required("#home-page").hidden=page!=="home";required("#page-content").hidden=page==='home';
+    updateNavigation();required("#home-page").hidden=page!=="home";required("#page-content").hidden=page==='home';
     if(page==='home')renderHome();
     else {disposeGraphics?.();disposeGraphics=null;required("#page-content").innerHTML=page==='downloads'?downloadsView(snapshot,downloads,t):page==='library'?libraryView(snapshot,library,t):page==='tools'?toolsView(snapshot,tools,t,showToolCatalog):page==='platforms'?(platformModule==='torrent'?torrents.render():platformModule==='courses'?courses.render():platformModule==='telegram'?telegram.render():platformModule==='live'?live.render():platformModule==='exports'?sourceExports.render():platformModule==='files'?advancedFiles.render():platformModule==='fileSources'?fileSources.render():platforms.render()):settingsView(snapshot,preferences,t,desktop);}
     if(page==='platforms'&&platformModule!=='catalog')required('#page-content').insertAdjacentHTML('afterbegin',`<button type="button" class="button quiet" data-action="platform-back">${t('← Plataformas','← Platforms')}</button>`);
@@ -626,6 +626,12 @@ function setToolInput(ids: string[]): void {
 
 document.addEventListener("pointerdown",()=>{pointerInput=true;document.documentElement.dataset.input="pointer";},{passive:true});
 document.addEventListener("keydown",()=>{pointerInput=false;document.documentElement.dataset.input="keyboard";cancelSurfaceMotion();},true);
+document.addEventListener("contextmenu", event => {
+  const target = event.target;
+  const textInput = target instanceof HTMLInputElement && ["text", "search", "url", "email", "tel", "password", "number"].includes(target.type);
+  if (textInput || target instanceof HTMLTextAreaElement || target instanceof HTMLElement && target.isContentEditable) return;
+  event.preventDefault();
+});
 matchMedia("(prefers-reduced-motion: reduce)").addEventListener("change",()=>cancelSurfaceMotion());
 document.addEventListener("click",event=>{
   const target=event.target instanceof Element?event.target.closest<HTMLButtonElement>('button'):null;

diff --git a/docs/design-reference.md b/docs/design-reference.md
@@ -10,13 +10,13 @@ Referencias visuales consultadas para esta ampliación: [Linear, marzo de 2026](
 
 La petición posterior del usuario autoriza ondas ocasionales de color y el modo multicolor del emblema. El modo normal conserva la base monocromática; ondas suaves tiñen regiones del campo con tonos vecinos que avanzan de forma continua por el círculo cromático. Diez activaciones del emblema alternan el espectro completo del campo y la escultura. El emblema es un botón accesible con teclado, sin repetir debajo la palabra nabnab. Reducir movimiento congela el renderer y elimina las ondas ambientales; un espectro elegido puede mostrarse estático.
 
-La navegación tiene una superficie continua desde el borde superior de la ventana. Fuera de Inicio, el emblema pequeño identifica el marco y el área de trabajo se distingue por un borde suave y esquinas redondeadas. El acceso **Buscar en nabnab** abre la misma paleta que Ctrl+K. La barra de título conserva su región de arrastre y la selección lateral se reconoce por su superficie y el peso del texto.
+Inicio y las demás secciones comparten el marco, la posición de la navegación, el emblema pequeño y el acceso **Buscar en nabnab**. La barra de título conserva su región de arrastre. La selección lateral combina superficie, peso e indicador. Al navegar con el puntero cambia el contenido dentro del marco y baja la intensidad del fondo. Con teclado o movimiento reducido, el cambio es inmediato.
 
 Tokens canónicos: fondo `#090A0C`, secundario `#101114`, elevado `#17191D`, hover `#1E2126`, borde `#2B2E34`, texto `#F2F2F3`, secundario `#B2B5BD`, auxiliar `#858A95`, acción clara `#E9EBEF`. Espaciado 4/8/12/16/24/32, controles 36–40 px, radios 8–10 px y paneles 12–14 px. Fuente de sistema, 13–15 px habitual, títulos 20–24 px.
 
 Ventana inicial 1180 × 780, mínimo 900 × 620. Navegación de 200 px expandida y 64 px contraída. Foco visible, errores con texto, estados deshabilitados y movimiento reducido. El campo y el emblema reutilizan el renderer existente y se detienen fuera de Inicio o con la ventana oculta.
 
-El campo ocupa la ventana completa, incluida la zona detrás de la navegación y la barra nativa. En Inicio, la sidebar comparte ese fondo con un material ahumado translúcido, desenfoque local de 6 px y una separación discreta. El tinte oscuro del 40 % deja percibir el movimiento del campo. El estado seleccionado combina superficie, borde e indicador. El foco mantiene su contorno visible y el emblema de Inicio ocupa el centro.
+El campo ocupa la ventana completa, incluida la zona detrás de la navegación y la barra nativa. Tres corrientes de caracteres se desplazan a ritmos distintos y los contornos de interferencia se concentran hacia los bordes. El centro tiene menos contraste para dejar espacio a la entrada. Fuera de Inicio se conserva el último fotograma con menos intensidad y se detiene el bucle gráfico. La barra lateral usa el mismo material translúcido en todas las secciones. El emblema central mantiene su tamaño de 72 px y su animación original.
 
 Inicio vacío equilibra el emblema de 72 px y la entrada de 680 px con espacio negativo. La entrada mide 54 px y crece con varios enlaces hasta unos 128 px. Al cargar contenido, la composición se compacta. La columna de 560 px en ventanas de hasta 900 px de alto recupera la densidad de la interfaz anterior; una ventana más alta permite 600 px. La previsualización de paisaje llena esa columna y conserva su proporción. Los retratos limitan su altura y mantienen su proporción natural. Sin imagen, queda un icono compacto junto al título.
 

diff --git a/THIRD_PARTY_NOTICES.md b/THIRD_PARTY_NOTICES.md
@@ -1,5 +1,7 @@
 # Third-party notices
 
+The local platform marks under `public/platform-logos` are unchanged SVG files from [Simple Icons 16.0.0](https://github.com/simple-icons/simple-icons/tree/16.0.0/icons). The set is distributed under [CC0 1.0](https://github.com/simple-icons/simple-icons/blob/16.0.0/LICENSE.md). The PeerTube artwork by Framasoft is listed under [CC BY-SA 4.0](https://creativecommons.org/licenses/by-sa/4.0/). See the [upstream trademark notice](https://github.com/simple-icons/simple-icons/blob/16.0.0/DISCLAIMER.md) for the separate rights associated with brand marks.
+
 nabnab launches the following separate engine executables. They are not linked into its Rust binary.
 
 Optional OCR uses Tesseract 5.5.4 and Leptonica 1.87.0 from pinned Cygwin packages, plus their separate runtime dependencies. Package versions, SHA-512 checksums, license labels and source-package links are recorded in `src-tauri/src/ocr/packages.json`. The installer retains package license files and excludes unrelated system utilities. English and Spanish use the pinned Apache-2.0 `tessdata_fast` models documented in `docs/OCR.md`; they are downloaded only after consent. These binaries and models are not included in the default application bundle.

diff --git a/docs/PLATFORMS.md b/docs/PLATFORMS.md
@@ -1,5 +1,7 @@
 # Matriz de plataformas
 
+El catálogo incorpora 35 logotipos vectoriales locales con un tratamiento monocromático. Las fuentes restantes usan el icono de su categoría. El campo de búsqueda muestra un solo contorno al recibir el foco y el catálogo se desplaza en vertical. [Vista de Plataformas](platform-logos.png)
+
 La presencia de un extractor de yt-dlp y las pruebas con JSON simulado no certifican una plataforma. Esta matriz distingue implementación de pruebas reales. No se usan servicios de extracción intermediarios.
 
 | Plataforma | Contrato y motor | Vídeo/audio | Lotes | Imagen/galería | Sesión opcional | Prueba real en 0.2 |
